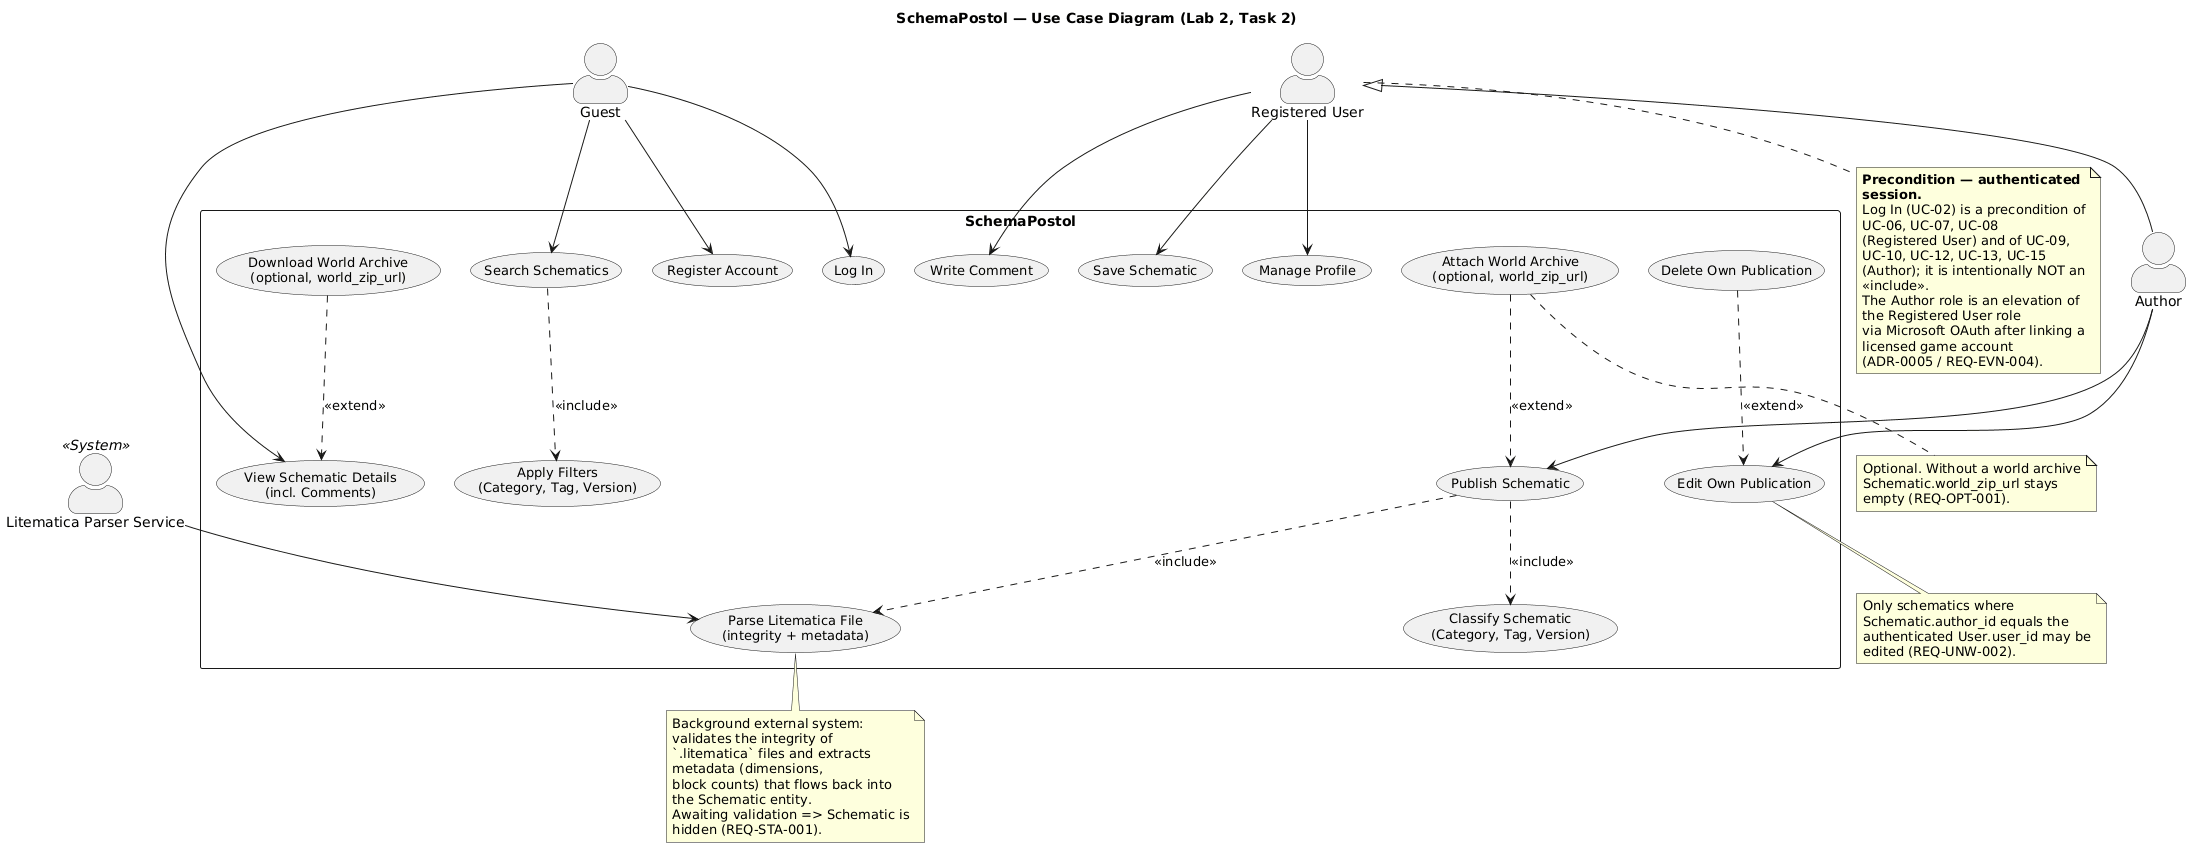
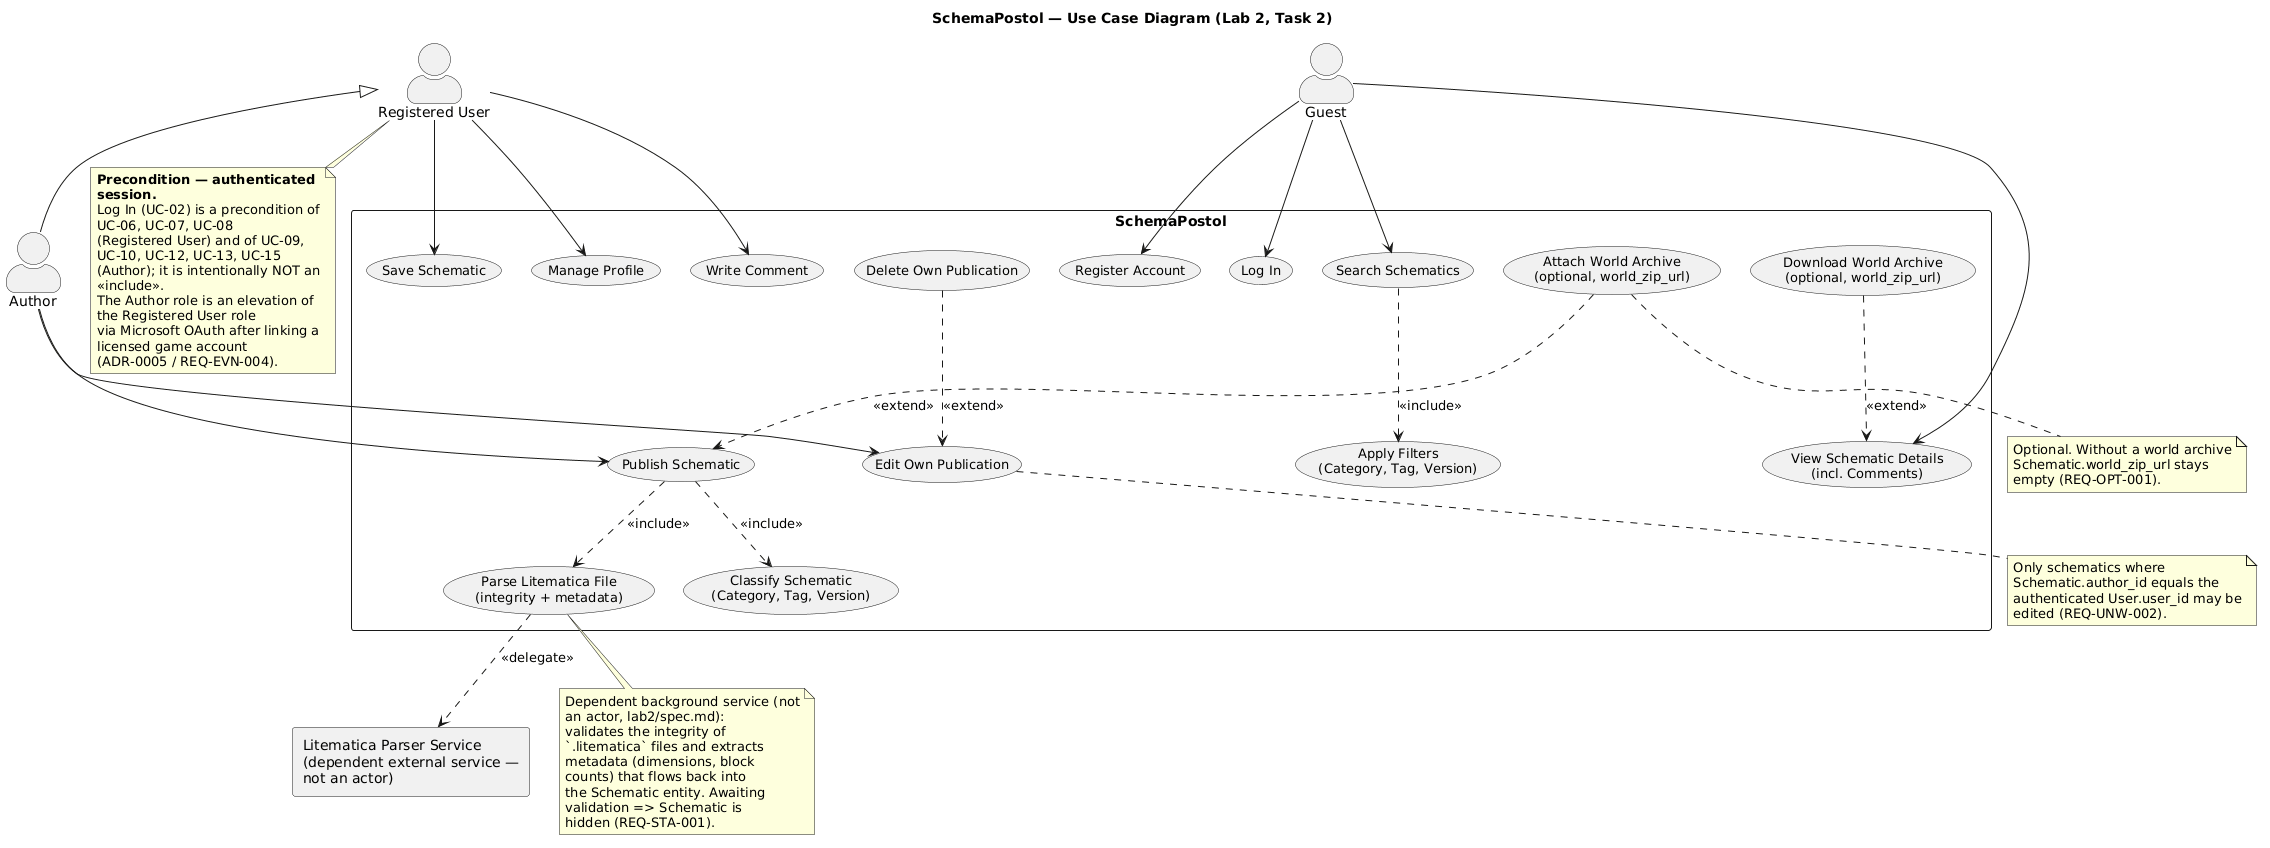
agent commit

diff --git a/lab2/requirements/user-stories.md b/lab2/requirements/user-stories.md
@@ -1,7 +1,7 @@
 # User Stories — SchemaPostol
 
 > Lab 2 · Task 2 · Gherkin scenarios.
-> Every scenario uses `GIVEN / WHEN / THEN` steps and references only the actors from `lab2/spec.md` (`Guest`, `Registered User`, `Author`, `Litematica Parser Service`) and the ER entities from `lab1/model/er-diagram.mmd`.
+> Every scenario uses `GIVEN / WHEN / THEN` steps and references only the actors from `lab2/spec.md` (`Guest`, `Registered User`, `Author`) and the ER entities from `lab1/model/er-diagram.mmd`. The `Litematica Parser Service` is not an actor (`lab2/spec.md`): it is a dependent external background service used inside scenarios as a precondition/trigger.
 
 ## Index
 
@@ -278,7 +278,7 @@ Feature: Elevating a Registered User to Author via Microsoft OAuth
 
 ## Notes
 
-* `Litematica Parser Service` is an external system actor (`lab2/spec.md`); its behaviour inside scenarios is expressed as preconditions/triggers (`the Litematica Parser Service confirms/reports ...`), which map to REQ-EVN-001, REQ-EVN-002 and REQ-UNW-001.
+* `Litematica Parser Service` is a dependent external background service, **not an actor** (`lab2/spec.md`); its behaviour inside scenarios is expressed as preconditions/triggers (`the Litematica Parser Service confirms/reports ...`), which map to REQ-EVN-001, REQ-EVN-002 and REQ-UNW-001.
 * Every `Author` scenario (US-04, US-05) starts from an account whose role was elevated through the Microsoft OAuth flow (REQ-EVN-004, ADR-0005): `Registered User` → `Author`. The ER model keeps no `role` attribute, so the elevation introduces no new entities or attributes — it is authorization data of the `User` account.
 * All identifiers used above (`slug`, `author_id`, `world_zip_url`, entity names) match the ER model of `lab1/model/er-diagram.mmd` exactly.
 * Use case IDs (UC-xx) are defined in `lab2/model/use-case-diagram.puml` and mapped to requirements in `lab2/requirements/traceability-matrix.md`.

diff --git a/lab2/ai/prompt-3.md b/lab2/ai/prompt-3.md
@@ -1,0 +1,17 @@
+# Ітерація 3: Доведення юз-кейс діаграми до правильного вигляду
+
+## Промт
+> Read all Task 2 files and find all mismatches with `lab2/model/use-case-diagram.puml`.
+> Re-generate all Task 2 artifacts so that they match new `lab2/spec.md`.
+> Do not change files that doesn't conflict with the new context.
+
+## Контекст
+- Файл: `lab2/spec.md` (commit: `<7548cd6c11441ed09e1b11a85a06450b92c536ef>`)
+
+## Очікуваний результат
+- `lab2/model/use-case-diagram.puml` редаговано
+- `lab2/model/use-case-diagram.png` редаговано
+- `lab2/requirements/traceability-matrix.md` редаговано
+
+## Аудит результатів
+всьо класно, ґуд, лайк ♥

diff --git a/lab2/requirements/traceability-matrix.md b/lab2/requirements/traceability-matrix.md
@@ -18,7 +18,7 @@
 | UC-08 | Manage Profile (Microsoft OAuth account link) | Registered User |
 | UC-09 | Publish Schematic | Author |
 | UC-10 | Classify Schematic (Category, Tag, Version) | Author |
-| UC-11 | Parse Litematica File (integrity + metadata) | Litematica Parser Service `<<System>>` |
+| UC-11 | Parse Litematica File (integrity + metadata) | — (dependent external background service `Litematica Parser Service`, **not an actor** per `lab2/spec.md`; reached via `<<delegate>>` from UC-11) |
 | UC-12 | Edit Own Publication | Author |
 | UC-13 | Attach World Archive (optional, `world_zip_url`) | Author |
 | UC-14 | Download World Archive (optional, `world_zip_url`) | Guest |
